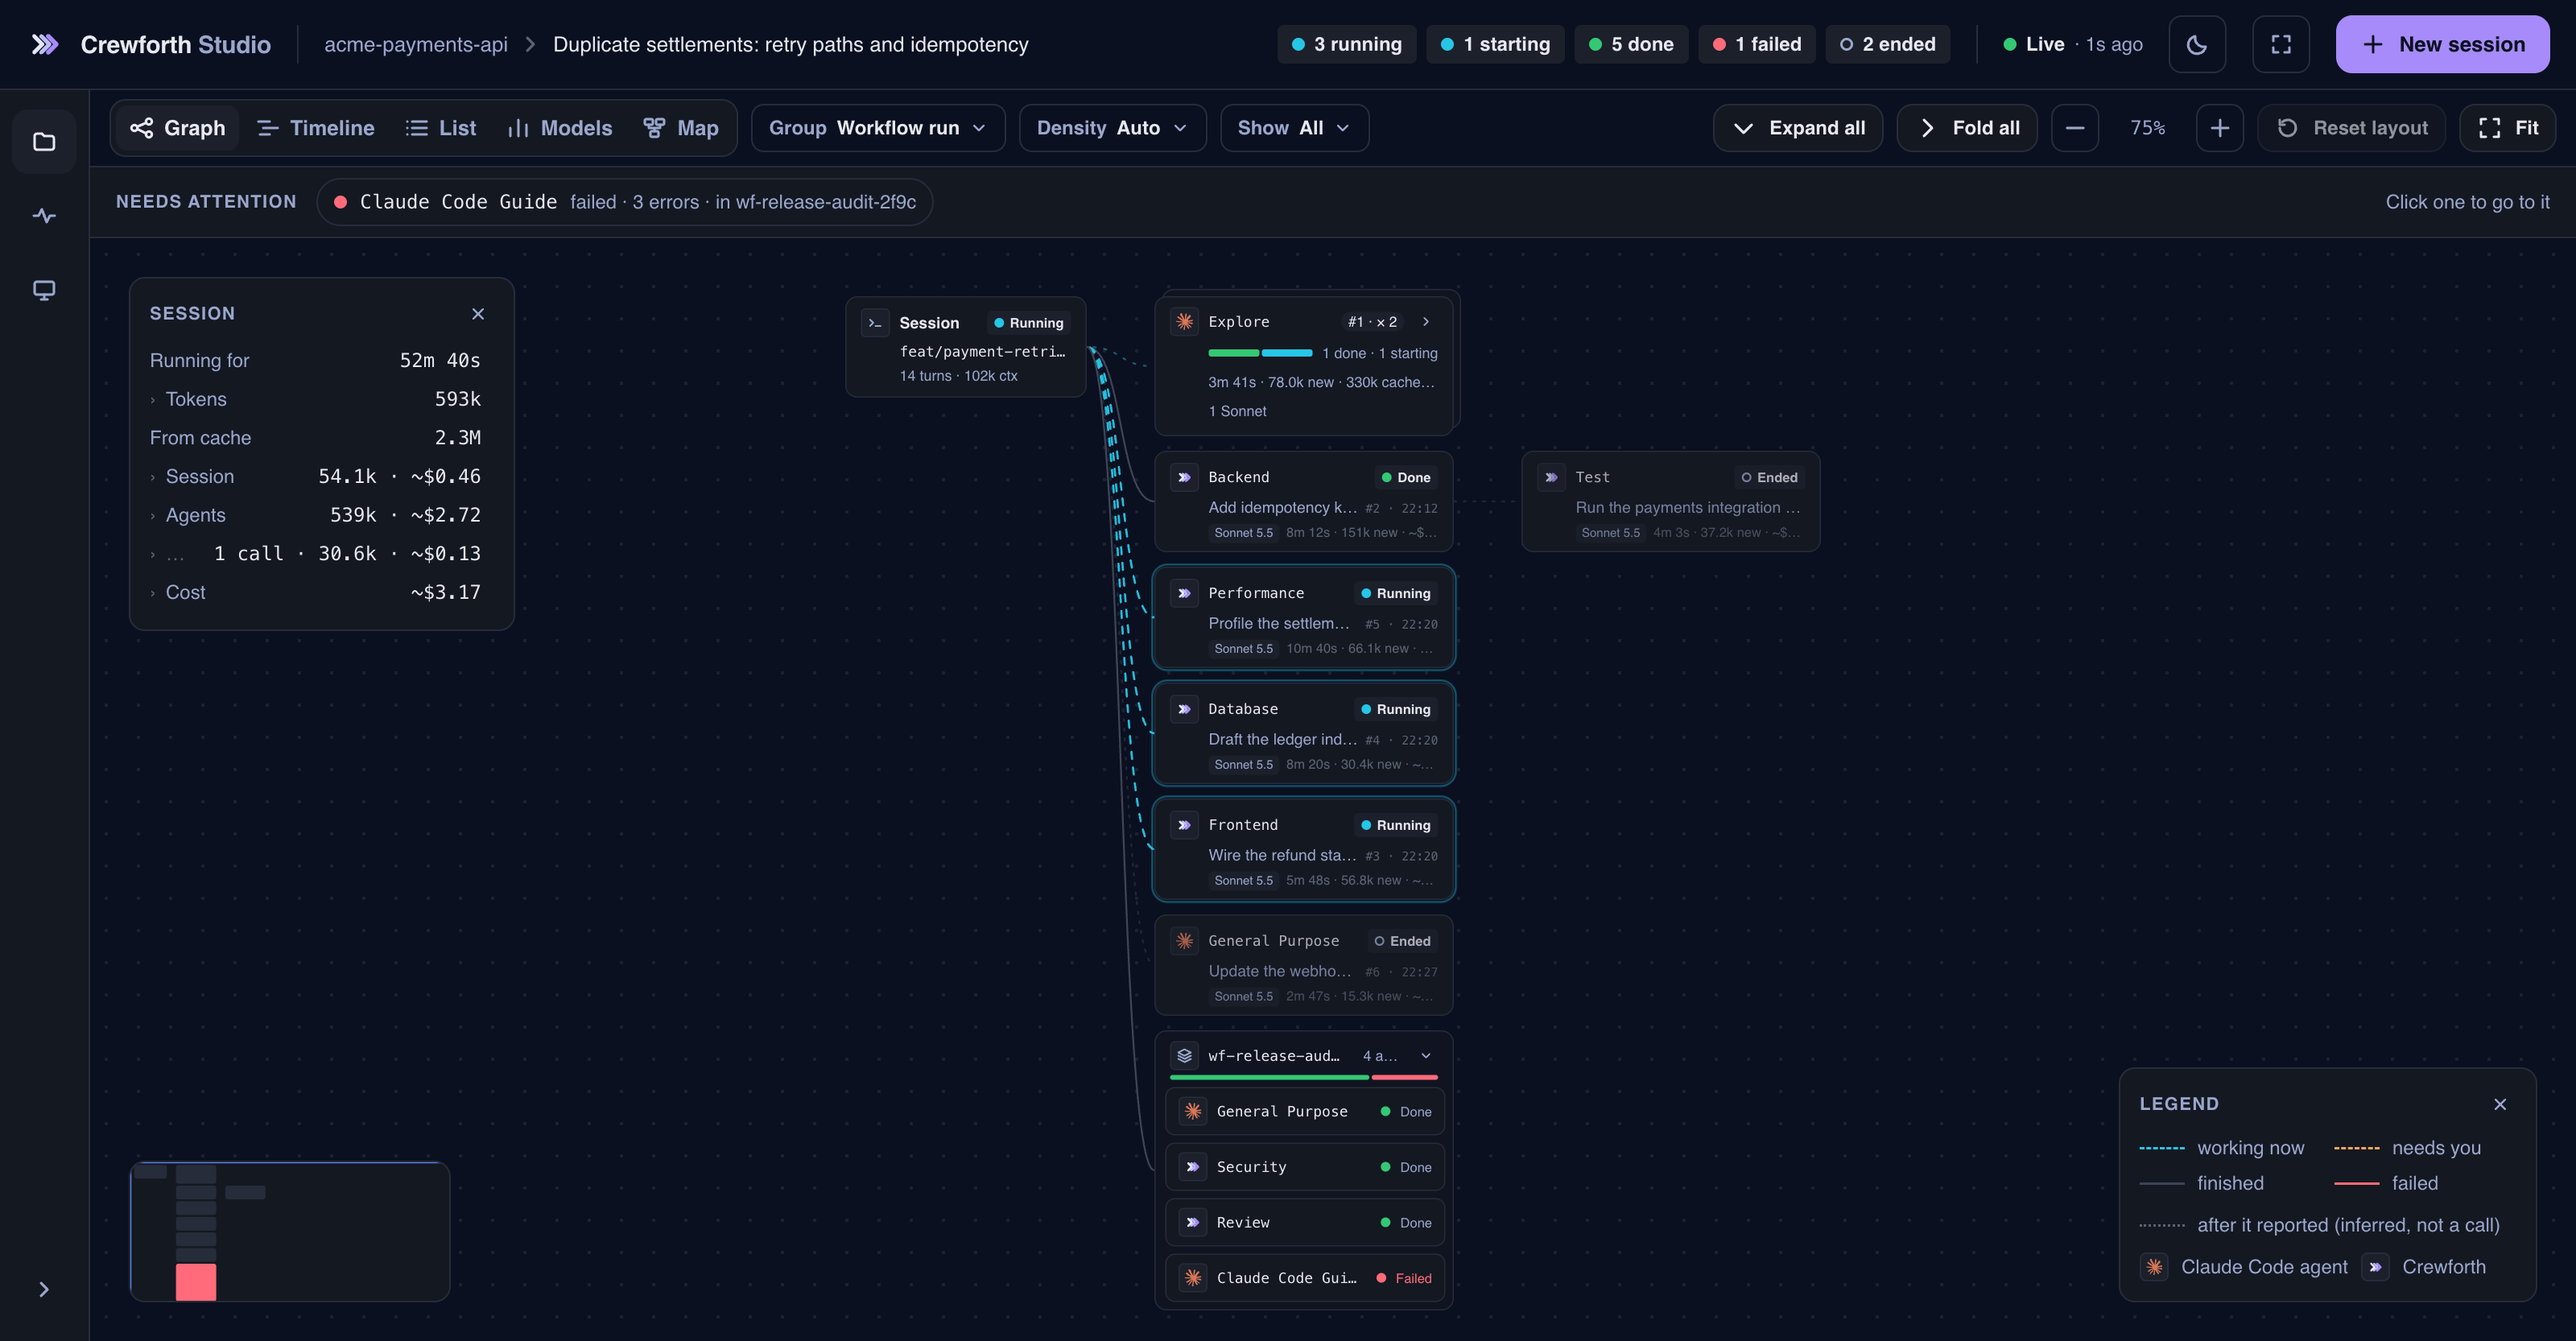
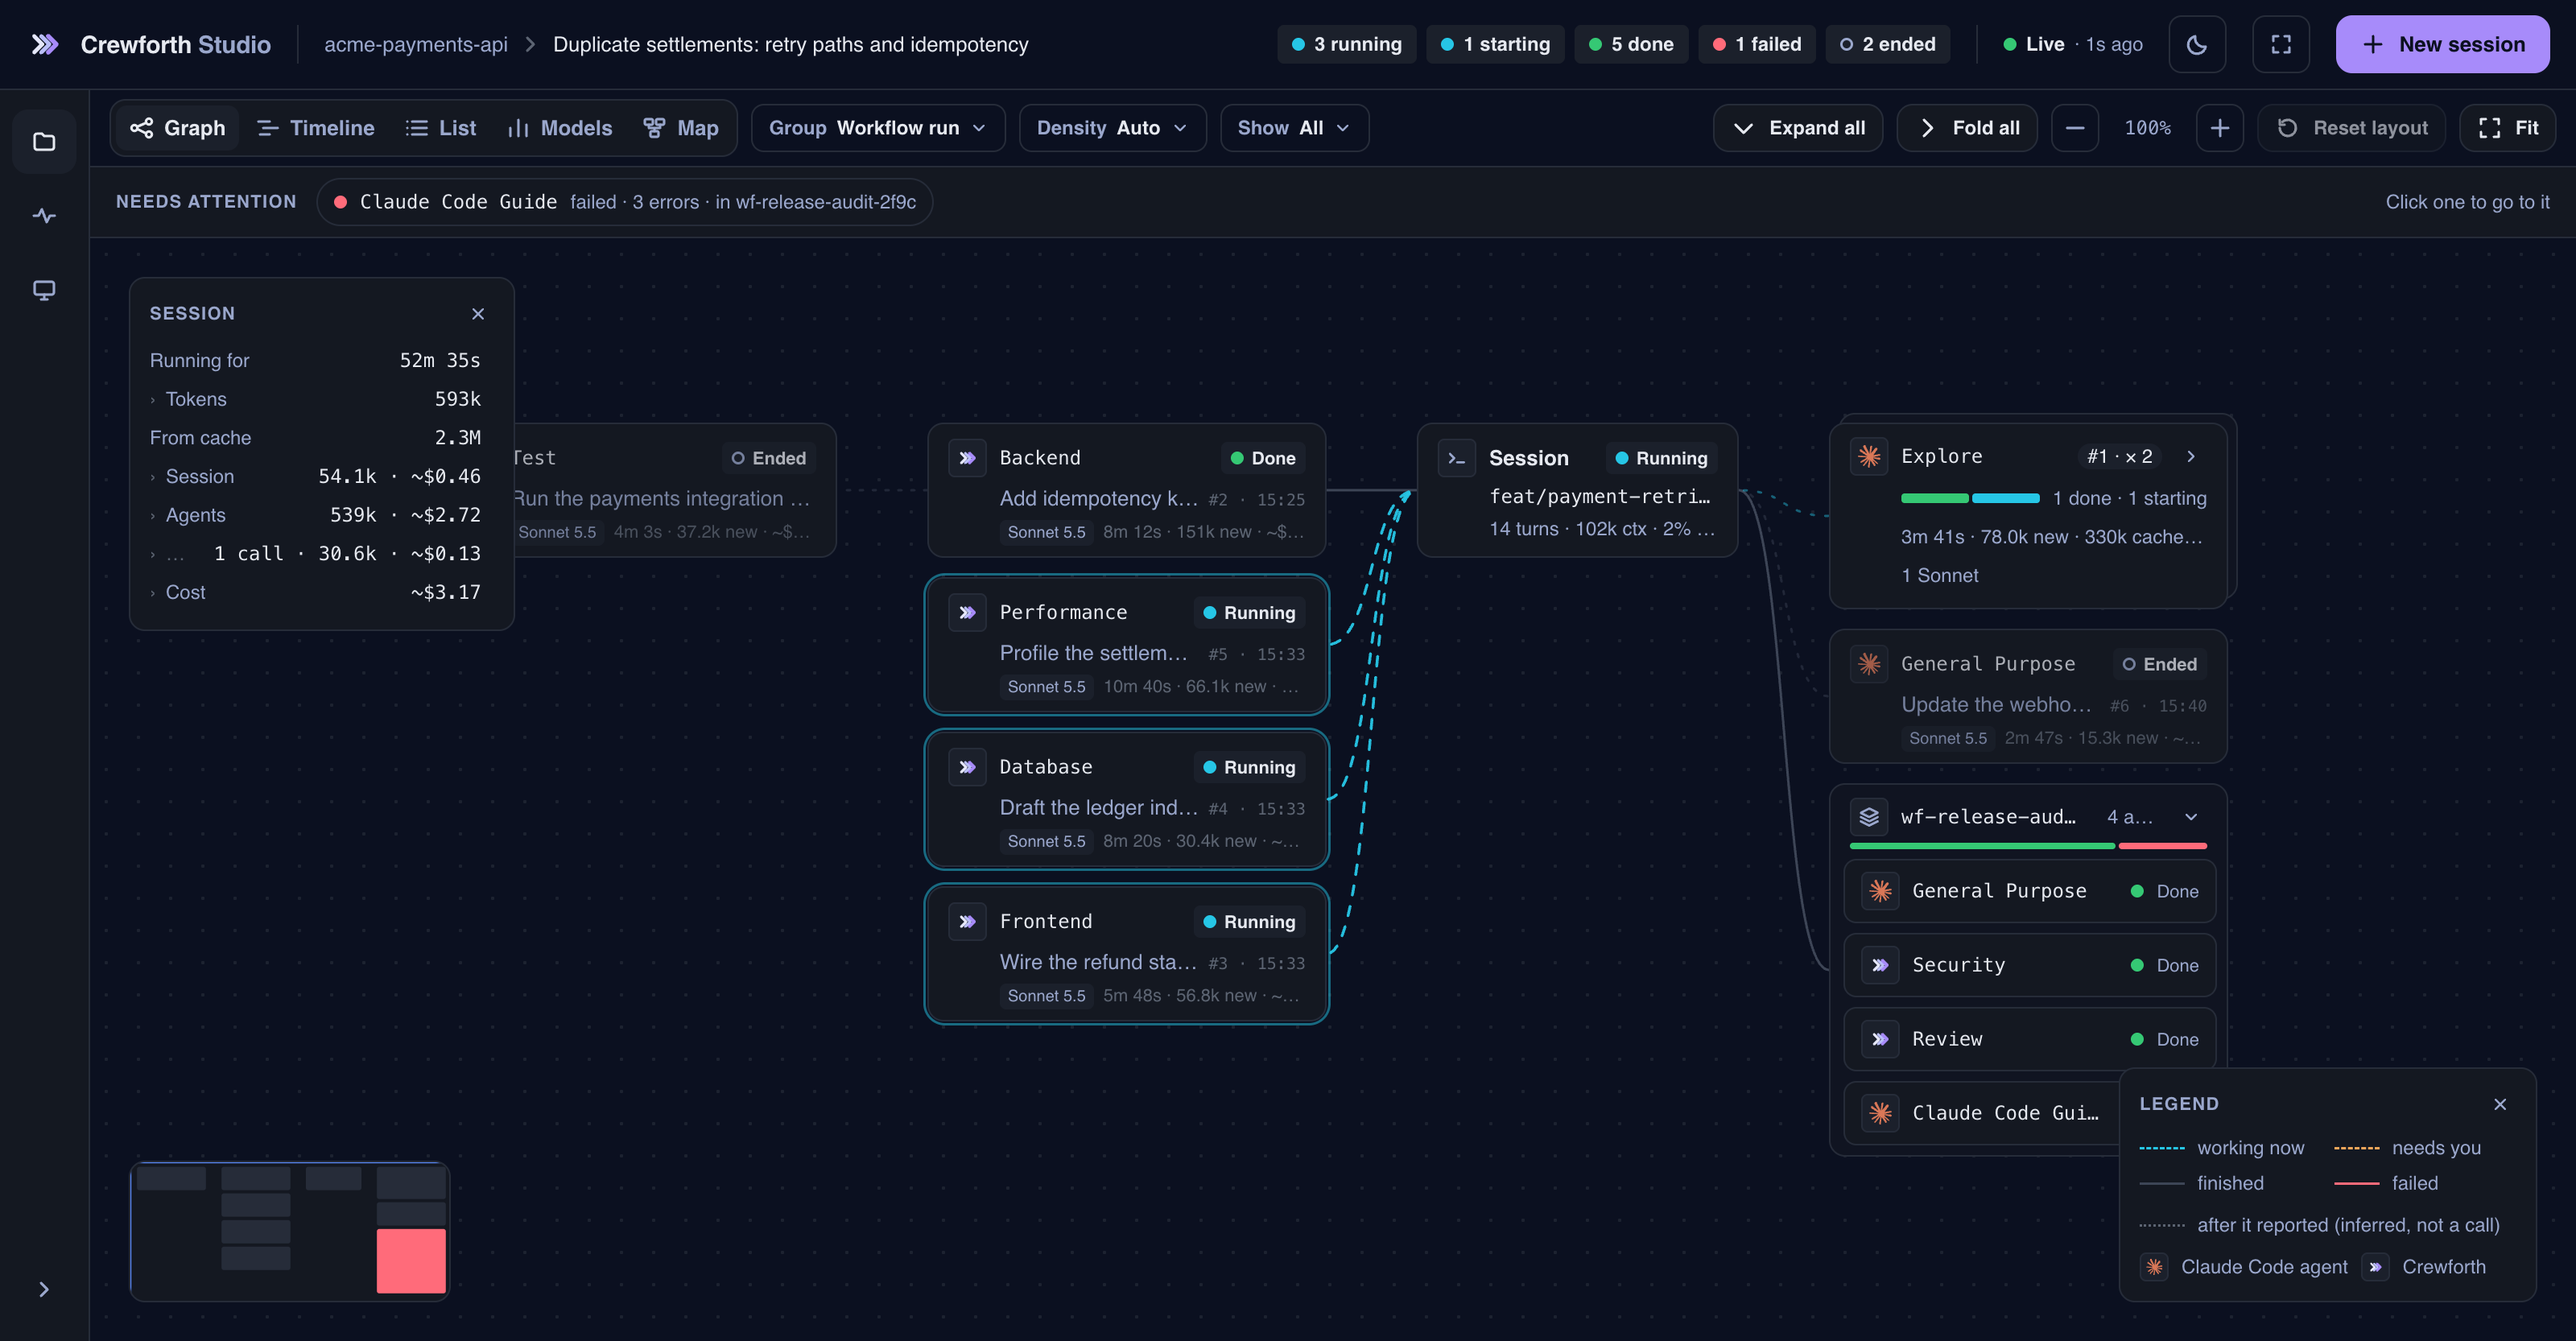
feat(studio): lay the graph out on two sides in a wide window
In a window with room the session stands in the middle: the agents that
build (backend, frontend, database, test, devops, performance) grow to its
left, mirrored, and every other agent to its right. One tall column beside
an empty half of the pane becomes two short ones. The side follows the
agent's type, never the count, so an arrival moves nothing already drawn.
A narrow window keeps the left-to-right tree, and Order keeps its waves.

Wires on the left leave the parent's left edge and enter the card's right
edge; the canvas mirrors the curve from the edge's dir.

diff --git a/kit/studio/web/graph-plan.js b/kit/studio/web/graph-plan.js
@@ -14,6 +14,13 @@
 // 2. Nothing here reads the zoom. Positions are a function of the nodes and the viewer's choices, never of the
 //    view, so zooming cannot move a card.
 // 3. Colour is not decided here at all. A box carries its status; the stylesheet turns status into colour.
+//
+// TWO SIDES
+//
+// In a window with room (`opts.sides`) the session stands in the middle: the agents that build — backend, frontend,
+// database, test, devops, performance — grow to its left, mirrored, and everything else grows to its right. One
+// column of a dozen agents beside an empty half of the pane is then two columns of six. A side is decided by an
+// agent's type, never by how many are on either side, so an agent that arrives does not move one already drawn.
 
 import { typeOf, roleName, shownType } from './names.js';
 
@@ -79,6 +86,15 @@ export const STATE = {
 export const stateOf = (status) => STATE[status] ?? 'unknown';
 
 const SESSION = 'session';
+
+/** The agents that build the product. Under `sides` they stand to the left of the session; the rest to its right. */
+export const BUILDERS = new Set([
+  'crew-backend-expert', 'crew-frontend-expert', 'crew-database-expert',
+  'crew-test-expert', 'crew-devops-expert', 'crew-performance-expert',
+]);
+
+/** -1 for the left of the session, 1 for its right. A workflow run, an unknown type and every other agent: right. */
+export const sideOf = (type) => (BUILDERS.has(type) ? -1 : 1);
 
 /* --------------------------------------------------------------- groups --- */
 
@@ -295,6 +311,8 @@ export const sessionHeight = (n) => SIZE.session.h + (n?.backgroundNow?.length ?
  *                       the reference window's when it is not given
  * @param opts.aside     true when an open type group puts its agents in the next column instead of growing
  *                       downward; a narrow window leaves it off
+ * @param opts.sides     true to put the agents that build to the left of the session and the rest to its right
+ *                       (see TWO SIDES above); a narrow window leaves it off and the tree reads left to right
  * @returns { items, edges, width, height, drawn, density, sessionY }
  */
 export function plan(nodes, opts = {}) {
@@ -333,6 +351,17 @@ export function plan(nodes, opts = {}) {
   };
 
   const G = SIZE.group;
+  const sides = Boolean(opts.sides);
+
+  /** The side an item grows on: 0 for the session, and what the top of its branch is for everything under it. */
+  const sideOfItem = (it) => {
+    if (!sides || it.kind === 'session') return 0;
+    let top = it;
+    for (let guard = 0; top.parent && top.parent.kind !== 'session' && guard < 64; guard += 1) top = top.parent;
+    if (top.kind === 'agent') return sideOf(typeOf(top.node));
+    if (top.kind === 'group' && top.type === 'type') return sideOf(top.real);
+    return 1;
+  };
 
   /** Size and place everything drawn, at one density. Returns the box the picture needs. */
   const lay = (drawnItems, compact) => {
@@ -372,13 +401,18 @@ export function plan(nodes, opts = {}) {
       }));
     }
 
-    // Columns: one per depth, as wide as the widest thing in it.
-    const depths = [...new Set(drawnItems.map((it) => it.depth))].sort((a, b) => a - b);
+    // Columns: one per depth, as wide as the widest thing in it. Under `sides` a column is a depth on one side,
+    // keyed by the depth with the side's sign, so the left side's columns come first, outermost first.
+    for (const it of drawnItems) { it.side = sideOfItem(it); it.col = it.side < 0 ? -it.depth : it.depth; }
+    const cols = [...new Set(drawnItems.map((it) => it.col))].sort((a, b) => a - b);
     const colX = new Map();
+    const colW = new Map();
     let x = SIZE.padX;
-    for (const d of depths) {
-      colX.set(d, x);
-      x += Math.max(...drawnItems.filter((it) => it.depth === d).map((it) => it.w)) + SIZE.colGap;
+    for (const k of cols) {
+      const w = Math.max(...drawnItems.filter((it) => it.col === k).map((it) => it.w));
+      colX.set(k, x);
+      colW.set(k, w);
+      x += w + SIZE.colGap;
     }
     const width = x - SIZE.colGap + SIZE.padX;
 
@@ -392,12 +426,14 @@ export function plan(nodes, opts = {}) {
       return Math.max(SIZE.padY, cy - it.h / 2);
     };
     let height = 0;
-    for (const d of depths) {
-      if (d === 0) continue;
-      const col = drawnItems.filter((it) => it.depth === d).sort((a, b) => a.seq - b.seq || String(a.id).localeCompare(String(b.id)));
+    // Nearest the session first, so a parent has its place before its children ask for it.
+    for (const k of cols.slice().sort((a, b) => Math.abs(a) - Math.abs(b) || a - b)) {
+      if (k === 0) continue;
+      const col = drawnItems.filter((it) => it.col === k).sort((a, b) => a.seq - b.seq || String(a.id).localeCompare(String(b.id)));
       let cursor = SIZE.padY;
       for (const it of col) {
-        it.x = colX.get(d);
+        // On the left a column's boxes line up on their right edge, the one their wire comes into.
+        it.x = it.side < 0 ? colX.get(k) + colW.get(k) - it.w : colX.get(k);
         it.y = Math.max(cursor, anchorY(it));
         cursor = it.y + it.h + SIZE.rowGap;
       }
@@ -449,15 +485,17 @@ export function plan(nodes, opts = {}) {
     if (p) { it.x = p.x; it.y = p.y; it.pinned = true; }
   }
 
-  // Wires: out of the right edge of what spawned a thing, into its left edge.
+  // Wires: out of the right edge of what spawned a thing, into its left edge. On the left side, mirrored: out of
+  // the left edge, into the right one, and `dir` says so to whoever draws the curve.
   const edges = [];
   for (const it of drawnItems) {
     const p = it.parent;
     if (!p) continue;
     const cell = cellOf(it);
+    const left = it.side < 0;
     const from = cell
-      ? { x: p.x + cell.x + cell.w, y: p.y + cell.y + cell.h / 2 }
-      : { x: p.x + p.w, y: p.y + p.h / 2 };
+      ? { x: p.x + cell.x + (left ? 0 : cell.w), y: p.y + cell.y + cell.h / 2 }
+      : { x: p.x + (left ? 0 : p.w), y: p.y + p.h / 2 };
     const status = it.kind === 'group' ? it.status : (it.node.status ?? 'unknown');
     // A group's wire says whether the group is still working. What went wrong inside it is said by its bar, its
     // count and the member itself; a red wire into twelve agents because one failed would say the wrong thing
@@ -468,7 +506,8 @@ export function plan(nodes, opts = {}) {
       source: it.via ?? p.id,
       target: it.id,
       from,
-      to: { x: it.x, y: it.y + it.h / 2 },
+      to: { x: it.x + (left ? it.w : 0), y: it.y + it.h / 2 },
+      dir: left ? -1 : 1,
       status,
       state,
     });
@@ -476,7 +515,7 @@ export function plan(nodes, opts = {}) {
 
   return {
     items: drawnItems, edges, width: Math.max(width, SIZE.padX * 2), height: Math.max(height, SIZE.padY * 2),
-    drawn, density, group, stacked, aside: Boolean(aside), sessionY: sessionY ?? null,
+    drawn, density, group, stacked, aside: Boolean(aside), sides, sessionY: sessionY ?? null,
   };
 }
 
@@ -577,7 +616,7 @@ function planOrder(nodes, asked, opts, tallest = AUTO.tallest) {
 
   return {
     items, edges, width: Math.max(box.width, SIZE.padX * 2), height: Math.max(height, SIZE.padY * 2),
-    drawn: agents.length, density: compact ? 'compact' : 'comfortable', group: 'order', stacked: false, aside: false,
+    drawn: agents.length, density: compact ? 'compact' : 'comfortable', group: 'order', stacked: false, aside: false, sides: false,
     waves: waves.length, sessionY,
   };
 }

diff --git a/kit/studio/web/canvas.js b/kit/studio/web/canvas.js
@@ -524,7 +524,7 @@ export class Canvas {
   #plan() {
     return plan(this.#visibleNodes(), {
       group: this.group, density: this.density, seq: this.seq, open: this.open, pinned: this.pinned, sessionY: this.sessionY,
-      aside: this.aside, all: this.all, tallest: this.#tallest(),
+      aside: this.aside, sides: this.aside, all: this.all, tallest: this.#tallest(),
     });
   }
 
@@ -1073,11 +1073,12 @@ export class Canvas {
         this.edgeG.append(path);
       }
 
-      // Out of the right edge of what spawned it, into the left edge of the card. The control points are pushed
-      // along the flow so siblings fan out instead of stacking on one line.
+      // Out of the right edge of what spawned it, into the left edge of the card (mirrored on the left side, where
+      // `dir` is -1). The control points are pushed along the flow so siblings fan out instead of stacking on one line.
       const { from, to } = e;
       const c = Math.max(24, Math.abs(to.x - from.x) * 0.55);
-      const d = `M ${from.x} ${from.y} C ${from.x + c} ${from.y}, ${to.x - c} ${to.y}, ${to.x} ${to.y}`;
+      const k = c * (e.dir ?? 1);
+      const d = `M ${from.x} ${from.y} C ${from.x + k} ${from.y}, ${to.x - k} ${to.y}, ${to.x} ${to.y}`;
       if (path.d !== d) {
         path.d = d;
         path.setAttribute('d', d);

diff --git a/site/content/tr/studio.md b/site/content/tr/studio.md
@@ -30,7 +30,7 @@ npx crewforth studio                              # hiçbir şey kurmadan
 
 ## Tek oturum, üç görünüm
 
-- **Graph**: delegasyon kendi biçimiyle. Oturum solda, başlattığı ajanlar sağında; bir workflow koşusu, katlanabilen tek bir grup. Tuvalin üstündeki şerit ilgi isteyeni adıyla yazıyor, tıklayınca oraya gidiliyor.
+- **Graph**: delegasyon kendi biçimiyle. Geniş bir pencerede oturum ortada duruyor: geliştiren ajanlar (Backend, Frontend, Database, Test, DevOps, Performance) solunda, geri kalan her ajan sağında; böylece bir düzine ajan tek uzun sütun değil, iki kısa sütun oluyor. Taraf ajanın türüne göre belirleniyor, yani yeni gelen bir ajan önceden çizilmiş olanı hiç kaydırmıyor. Dar bir pencerede oturum solda, bütün ajanlar sağında. Bir workflow koşusu, katlanabilen tek bir grup. Tuvalin üstündeki şerit ilgi isteyeni adıyla yazıyor, tıklayınca oraya gidiliyor.
 - **Timeline**: aynı ajanlar saate karşı, her birine bir satır; seçili ajanın son hatası alttaki çekmecede. Bir ajanın sizi beklediği süre yalnızca Studio'nun başlattığı oturumda ve yalnızca panel açıldığından beri çiziliyor, çünkü o kayıt bellekte tutuluyor. Başka her oturumda Timeline, kimsenin beklemediği bir oturum çizmek yerine `Not measured: this session's approvals are not seen by Studio` yazıyor.
 - **List**: ajanlar, kime ihtiyaç olduğuna göre sıralı. Önce sizi bekleyen istekler, sonra düşenler ve çalışanlar; bitenler ve sona erenler katlı duruyor.
 

diff --git a/site/content/en/studio.md b/site/content/en/studio.md
@@ -30,7 +30,7 @@ npx crewforth studio                              # without installing anything
 
 ## Three views of one session
 
-- **Graph**: the delegation in its own shape. The session is on the left, the agents it started are to its right, and a workflow run is one group that folds. A strip above the canvas names what needs attention, and a click goes to it.
+- **Graph**: the delegation in its own shape. In a window with room the session stands in the middle, the agents that build (Backend, Frontend, Database, Test, DevOps, Performance) to its left and every other agent to its right, so a dozen agents are two short columns rather than one long one. A side is decided by the agent's type, so an agent that arrives never moves one already drawn. In a narrow window the session is on the left and every agent to its right. A workflow run is one group that folds. A strip above the canvas names what needs attention, and a click goes to it.
 - **Timeline**: the same agents against the clock, one row each, and a drawer with the selected agent's last error. The time an agent spent waiting for you is drawn only for a session Studio started, and only since the panel started, because that record is kept in memory. For any other session the Timeline says `Not measured: this session's approvals are not seen by Studio` instead of drawing a session in which nobody waited.
 - **List**: the agents sorted by what needs someone. Requests waiting for you come first, then failed and running; done and ended are folded.
 
